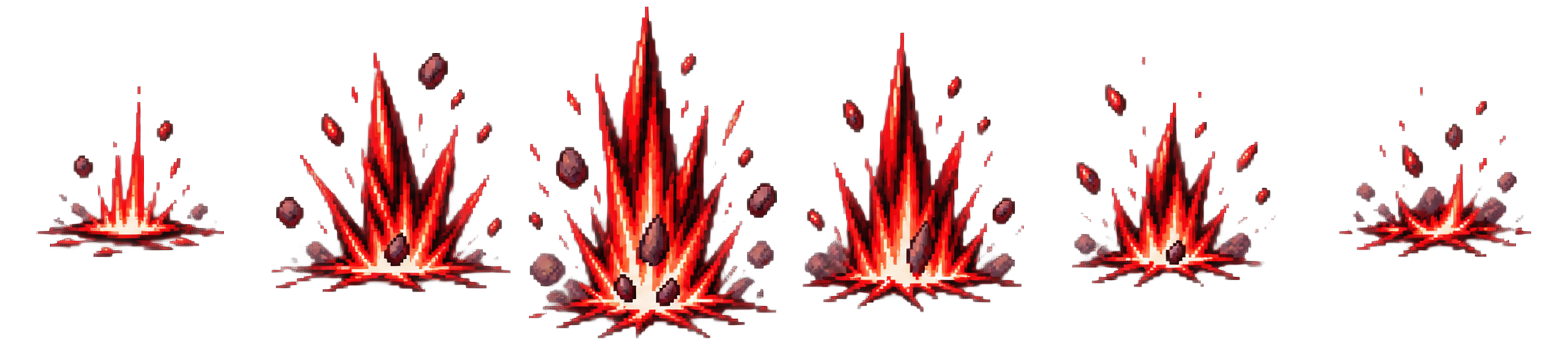
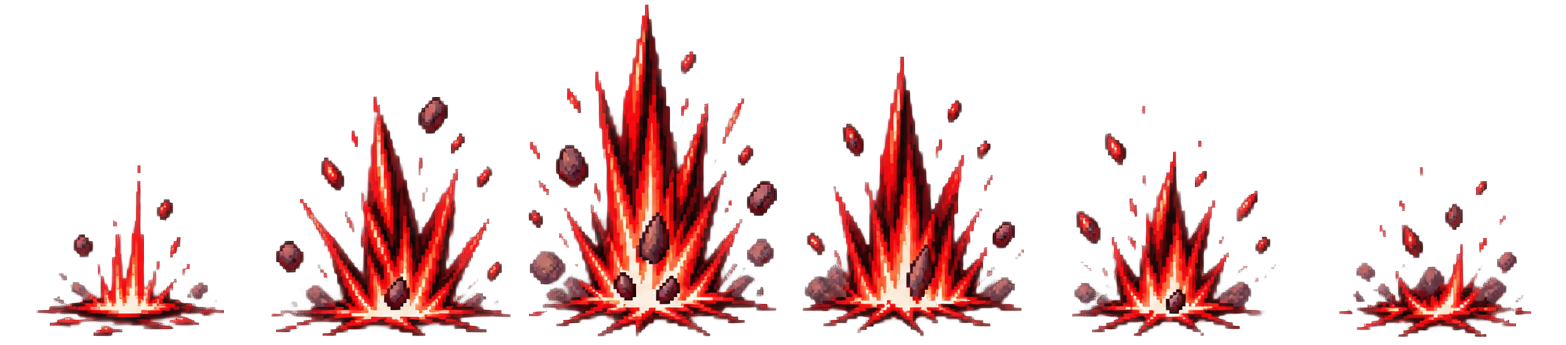
fix : 보스 공격 판정 y좌표, 이펙트 원점, 사슬 휘두르기, 그림자 정지 상태 수정
- 보스를 2배로 키우며 sprite.y(원점)가 가슴 높이까지 올라갔는데 공격 판정은
  여전히 그 기준이라 바닥에 선 플레이어에게 전혀 안 맞던 문제 — 베기·콤보·
  돌진·사슬 포획·사슬 휘두르기 전부 바닥 기준(attackY)으로 다시 잡았다.
- 지난 커밋에서 바닥 정렬(bottom-align)로 이펙트를 재추출하면서 원점을
  안 옮겨 그림이 지정한 y보다 훨씬 아래로 처지던 문제 — 보스 지면 이펙트
  6종 + 플레이어 검극(skillEruption)에 실제 그림 바닥 기준 원점을 추가.
- 내려찍기·판결진 이펙트가 여전히 높이 뜬다는 지적으로 앵커를 더 낮췄고,
  판결진은 배율도 별도로 키웠다.
- 사슬 휘두르기(투사체 기본 패턴)가 손에서 날아가던 것을 제자리에서
  스냅하는 채찍으로 바꿨다 — 판정체를 이동시키지 않는 것만으로 기존
  추적 이펙트를 재사용.
- 보스 히트박스가 다리를 못 맞히던 문제 — 물리 바디를 가운데 정렬 대신
  그림의 실제 바닥선에 붙였다.
- 그림자(깨어나기 전) 상태에 남아 있던 idle 애니메이션·알파 호흡·bob
  흔들림을 전부 제거해 완전히 정지하게 했다.

Claude-Session: https://claude.ai/code/session_01Sm9DXVkb9KpBVxAv69RrkR

diff --git a/src/game/entities/Boss.ts b/src/game/entities/Boss.ts
@@ -89,9 +89,21 @@ const PROJECTILE = {
   intervalMs: 180,
   speed: 430,
   size: 24,
-  /** 화면을 벗어난 투사체를 확실히 회수하기 위한 수명. */
+  /** 화면을 벗어난 투사체를 확실히 회수하기 위한 수명. `executeBarrage`(부채꼴 탄막) 전용. */
   lifeMs: 3_000,
   recoveryMs: 320,
+} as const;
+
+/**
+ * 사슬 휘두르기 — 기본 패턴(projectile) 실행부. 손에서 떨어져 나가 화면을 가로지르는
+ * 투사체가 아니라, 그 자리에서 뻗어 나왔다 되감기는 채찍이다. (사용자 지적: 왜 발사하냐,
+ * 손에서 나가야 한다) 판정체를 이동시키지 않는 것만으로 `bossChainLaunchTrail`을 그대로
+ * 재사용한다 — 폴링 대상이 안 움직이면 이펙트도 제자리에서만 재생된다.
+ */
+const WHIP = {
+  reach: 220,
+  height: 90,
+  activeMs: 160,
 } as const;
 
 const SLAM = {
@@ -332,7 +344,14 @@ export class Boss {
       .sprite(x, this.groundY, TEXTURE.bossIdle, 0)
       .setScale(BOSS_SPRITE_SCALE)
       .setDepth(DEPTH.boss);
-    sprite.body?.setSize(BODY.width / BOSS_SPRITE_SCALE, BODY.height / BOSS_SPRITE_SCALE);
+    // setSize만 쓰면 Phaser가 셀 "가운데"에 바디를 놓는다 — 그림이 바닥 쪽으로 치우쳐
+    // 있어(발이 셀 하단 가까이) 가운데 정렬로는 다리가 바디 밖으로 빠져 안 맞는다.
+    // (사용자 지적: 히트박스가 다리를 못 맞힌다) 바디 바닥을 그림의 실제 바닥선 근처에
+    // 직접 붙인다 — 머리 위쪽은 조금 비워 주더라도 다리는 반드시 잡는다.
+    const bodyWidthLocal = BODY.width / BOSS_SPRITE_SCALE;
+    const bodyHeightLocal = BODY.height / BOSS_SPRITE_SCALE;
+    sprite.body?.setSize(bodyWidthLocal, bodyHeightLocal);
+    sprite.body?.setOffset((463 - bodyWidthLocal) / 2, 395 - bodyHeightLocal);
 
     this.arena.enemyBodies.add(sprite);
     sprite.setData("enemy", this);
@@ -347,21 +366,11 @@ export class Boss {
     // 풀리는 순간 그동안 숨어서 쌓인 낙하 속도가 화면 밖까지 떨어뜨렸던 원인이 이것이다.
     (sprite.body as Phaser.Physics.Arcade.Body).setAllowGravity(false);
 
-    // 그림자 상태 — 어둡게 가라앉은 실루엣으로 서서 숨쉬듯 흔들린다. 체력바도,
-    // 패턴 타이머도 아직 없다(awaken 전까지 update()가 그 아래 로직을 건너뛴다).
-    sprite.play(BOSS_FRAME.idle);
+    // 그림자 상태 — 어둡게 가라앉은 실루엣으로 완전히 멈춰 선다. 숨쉬는 흔들림도,
+    // idle 애니메이션도 없다(사용자 요청: 깨우기 전엔 움직이는 모션이 아예 없어야 한다).
+    // 체력바도, 패턴 타이머도 아직 없다(awaken 전까지 update()가 그 아래 로직을 건너뛴다).
     sprite.setTintFill(0x140a12);
     sprite.setAlpha(0.82);
-    this.tweens.push(
-      this.scene.tweens.add({
-        targets: sprite,
-        alpha: 0.6,
-        duration: 1600,
-        yoyo: true,
-        repeat: -1,
-        ease: "sine.inOut",
-      }),
-    );
   }
 
   /**
@@ -394,9 +403,9 @@ export class Boss {
     const sprite = this.sprite;
     if (this.defeated || !sprite) return;
 
-    if (this.followHitbox) this.followHitbox.setPosition(sprite.x, sprite.y);
-    // 유휴 중에만 떠오르내린다 — 패턴 중엔 포즈·궤적이 우선이다.
-    this.bobOffset = this.busy || this.airborne ? 0 : Math.sin(time * 0.004) * 5;
+    if (this.followHitbox) this.followHitbox.setPosition(sprite.x, this.attackY);
+    // 유휴 중에만 떠오르내린다 — 패턴 중엔 포즈·궤적이 우선이고, 그림자 상태는 아예 멈춰야 한다.
+    this.bobOffset = this.busy || this.airborne || this.dormant ? 0 : Math.sin(time * 0.004) * 5;
     this.clampToArena(sprite);
 
     // 그림자 상태 — 깨어나기 전까지는 그 자리에 가만히 서 있는다.
@@ -453,6 +462,16 @@ export class Boss {
       // 터져 화면 밖으로 떨어지므로, 바닥에 붙어 있는 동안은 항상 0으로 눌러 둔다.
       sprite.setVelocityY(0);
     }
+  }
+
+  /**
+   * 근접형 공격 판정(베기·돌진·사슬 등)의 y 기준점. `sprite.y`(보스 원점)를 그대로 쓰면
+   * 안 된다 — 그림이 2배로 커지면서 원점이 가슴 위쪽까지 올라가, 그 높이에 판정을 놓으면
+   * 바닥에 선 플레이어에게 전혀 안 닿는다. (사용자 지적: 스킬이 전체적으로 너무 높아서
+   * 안 맞는다) 바닥에서 고정 거리만큼 낮춘 지점을 쓴다.
+   */
+  private get attackY(): number {
+    return this.arena.bounds.floorY - 60;
   }
 
   private facePlayer(sprite: Phaser.Physics.Arcade.Sprite): void {
@@ -582,7 +601,7 @@ export class Boss {
       const reach = SLASH.reach * (isFinisher ? COMBO.finisherReachScale : 1);
       const hitX = sprite.x + dir * (BODY.width / 2 + reach / 2);
 
-      bossTelegraphBoxFx(this.scene, hitX, sprite.y, reach, SLASH.height, COMBO.telegraphMs);
+      bossTelegraphBoxFx(this.scene, hitX, this.attackY, reach, SLASH.height, COMBO.telegraphMs);
       this.setPose(BOSS_FRAME.slashTelegraph);
       this.windup();
 
@@ -598,8 +617,8 @@ export class Boss {
         );
         this.punch(sprite);
         this.strikePose(BOSS_FRAME.slashStrike, 200);
-        this.spawnHitbox(hitX, sprite.y, reach, SLASH.height, SLASH.activeMs);
-        bossSlashCrescentFx(this.scene, sprite.x + dir * (BODY.width / 2), sprite.y - 8, dir, VFX_SCALE);
+        this.spawnHitbox(hitX, this.attackY, reach, SLASH.height, SLASH.activeMs);
+        bossSlashCrescentFx(this.scene, sprite.x + dir * (BODY.width / 2), this.attackY, dir, VFX_SCALE);
         if (isFinisher) {
           this.scene.cameras.main.shake(120, 0.006);
           this.after(SLASH.activeMs + COMBO.recoveryMs, () => this.finishPattern());
@@ -621,7 +640,7 @@ export class Boss {
     }
 
     const muzzleX = sprite.x + this.facing * (BODY.width / 2 + PROJECTILE.size);
-    const muzzleY = sprite.y - 12;
+    const muzzleY = this.attackY;
     bossTelegraphBoxFx(
       this.scene,
       muzzleX,
@@ -675,7 +694,8 @@ export class Boss {
     this.setPose(BOSS_FRAME.judgmentTelegraph);
     this.windup();
     // 판결을 여는 순간 — 발밑에 고리가 한 번 떠오른다.
-    bossJudgmentRingFx(this.scene, sprite.x, floorY - 20, VFX_SCALE);
+    // 사용자 지적: 너무 높이 뜨고 너무 작다 — 바닥에 더 붙이고 배율을 따로 키운다.
+    bossJudgmentRingFx(this.scene, sprite.x, floorY, VFX_SCALE * 1.5);
 
     for (let i = 0; i < ERUPTION.count; i += 1) {
       const at = Phaser.Math.Clamp(
@@ -720,9 +740,9 @@ export class Boss {
 
     const dir = this.facing;
     const x = sprite.x + dir * (BODY.width / 2 + CHAIN_PULL.reach / 2);
-    const y = sprite.y;
+    const y = this.attackY;
     this.showTelegraph(x, y, CHAIN_PULL.reach, CHAIN_PULL.height, CHAIN_PULL.telegraphMs);
-    bossChainOrbitFx(this.scene, sprite.x + dir * (BODY.width / 2), sprite.y, CHAIN_PULL.telegraphMs, VFX_SCALE);
+    bossChainOrbitFx(this.scene, sprite.x + dir * (BODY.width / 2), y, CHAIN_PULL.telegraphMs, VFX_SCALE);
     this.setPose(BOSS_FRAME.chainPullTelegraph);
     this.windup();
 
@@ -752,7 +772,7 @@ export class Boss {
     }
 
     const x = sprite.x + this.facing * (BODY.width / 2 + SLASH.reach / 2);
-    const y = sprite.y;
+    const y = this.attackY;
     this.showTelegraph(x, y, SLASH.reach, SLASH.height, SLASH.telegraphMs);
     this.setPose(BOSS_FRAME.slashTelegraph);
     this.windup();
@@ -762,7 +782,7 @@ export class Boss {
       this.strikePose(BOSS_FRAME.slashStrike, SLASH.activeMs + SLASH.recoveryMs);
       this.spawnHitbox(x, y, SLASH.reach, SLASH.height, SLASH.activeMs);
       // 판정은 투명하다 — 그림은 초승달 궤적 스프라이트가 담당한다.
-      bossSlashCrescentFx(this.scene, sprite.x + this.facing * (BODY.width / 2), y - 8, this.facing, VFX_SCALE);
+      bossSlashCrescentFx(this.scene, sprite.x + this.facing * (BODY.width / 2), y, this.facing, VFX_SCALE);
       this.after(SLASH.activeMs + SLASH.recoveryMs, () => this.finishPattern());
     });
   }
@@ -779,9 +799,9 @@ export class Boss {
     const reach = (DASH.speed * DASH.durationMs) / 1000;
     this.showTelegraph(
       sprite.x + (dir * reach) / 2,
-      sprite.y,
+      this.attackY,
       reach,
-      BODY.height,
+      SLASH.height,
       DASH.telegraphMs,
     );
     this.setPose(BOSS_FRAME.dashTelegraph);
@@ -790,15 +810,15 @@ export class Boss {
     this.after(DASH.telegraphMs, () => {
       this.strikePose(BOSS_FRAME.dashStrike, DASH.durationMs + DASH.recoveryMs);
       sprite.setVelocityX(dir * DASH.speed);
-      bossDashSlashFx(this.scene, sprite.x + dir * (BODY.width / 2), sprite.y - 8, dir, VFX_SCALE);
+      bossDashSlashFx(this.scene, sprite.x + dir * (BODY.width / 2), this.attackY, dir, VFX_SCALE);
       // 출발의 무게 — 발밑 흙이 터지고 화면이 잠깐 흔들린다.
       groundDust(this.scene, sprite.x, this.arena.bounds.floorY, "land");
       this.scene.cameras.main.shake(90, 0.004);
       this.followHitbox = this.spawnHitbox(
         sprite.x,
-        sprite.y,
+        this.attackY,
         DASH.hitWidth,
-        BODY.height,
+        SLASH.height,
         DASH.durationMs,
       );
 
@@ -818,7 +838,7 @@ export class Boss {
     });
   }
 
-  /** 원거리 투사체. 발사 순간의 플레이어 위치를 향해 쏘므로 움직이면 빗나간다. */
+  /** 사슬 휘두르기. 손에서 뻗어 나온 채찍이 그 자리에서 여러 번 스냅한다 — 날아가지 않는다. */
   private executeProjectile(): void {
     const sprite = this.sprite;
     if (!sprite) {
@@ -826,14 +846,10 @@ export class Boss {
       return;
     }
 
-    const muzzleX = sprite.x + this.facing * (BODY.width / 2 + PROJECTILE.size);
-    this.showTelegraph(
-      muzzleX,
-      sprite.y,
-      PROJECTILE.size * 2,
-      PROJECTILE.size * 2,
-      PROJECTILE.telegraphMs,
-    );
+    const dir = this.facing;
+    const x = sprite.x + dir * (BODY.width / 2 + WHIP.reach / 2);
+    const y = this.attackY;
+    this.showTelegraph(x, y, WHIP.reach, WHIP.height, PROJECTILE.telegraphMs);
     this.setPose(BOSS_FRAME.projectileTelegraph);
     this.windup();
 
@@ -841,31 +857,17 @@ export class Boss {
       const volleyMs = (PROJECTILE.count - 1) * PROJECTILE.intervalMs;
       this.strikePose(BOSS_FRAME.projectileStrike, volleyMs + PROJECTILE.recoveryMs);
       for (let i = 0; i < PROJECTILE.count; i += 1) {
-        this.after(i * PROJECTILE.intervalMs, () => this.fireProjectile(muzzleX, sprite.y));
+        this.after(i * PROJECTILE.intervalMs, () => this.snapChainWhip(x, y));
       }
       this.after(volleyMs + PROJECTILE.recoveryMs, () => this.finishPattern());
     });
   }
 
-  private fireProjectile(x: number, y: number): void {
-    const target = this.deps.getPlayerPosition();
-    const dx = target.x - x;
-    const dy = target.y - y;
-    const length = Math.hypot(dx, dy) || 1;
-
-    const shot = this.spawnHitbox(
-      x,
-      y,
-      PROJECTILE.size,
-      PROJECTILE.size,
-      PROJECTILE.lifeMs,
-      true,
-    );
-    shot.setVelocity(
-      (dx / length) * PROJECTILE.speed,
-      (dy / length) * PROJECTILE.speed,
-    );
-    // 판정은 투명하다 — 사슬 갈고리 스프라이트가 그림을 맡는다.
+  /** 채찍이 제자리에서 한 번 스냅한다 — 판정체를 이동시키지 않아 이펙트도 날아가지 않는다. */
+  private snapChainWhip(x: number, y: number): void {
+    const shot = this.spawnHitbox(x, y, WHIP.reach, WHIP.height, WHIP.activeMs, true);
+    // 판정은 투명하다 — 사슬 갈고리 스프라이트가 그림을 맡는다. 속도를 주지 않으므로
+    // bossChainLaunchTrail의 폴링 대상이 안 움직여 이펙트도 제자리에서만 재생된다.
     bossChainLaunchTrail(this.scene, shot, this.facing, VFX_SCALE);
   }
 
@@ -932,7 +934,8 @@ export class Boss {
             SLAM.activeMs,
           );
           // 판정은 투명하다 — 착지의 그림은 기둥 폭발 스프라이트 + 흙먼지가 맡는다.
-          bossSlamEruptionFx(this.scene, targetX, this.arena.bounds.floorY - 6, VFX_SCALE);
+          // 사용자 지적: 너무 높이 뜬다 — 바닥에 더 붙인다.
+          bossSlamEruptionFx(this.scene, targetX, this.arena.bounds.floorY + 12, VFX_SCALE);
           groundDust(this.scene, targetX, this.arena.bounds.floorY, "land");
           hitStop(this.scene, 70);
           this.after(SLAM.activeMs + SLAM.recoveryMs, () => this.finishPattern());

diff --git a/src/game/systems/CombatVfx.ts b/src/game/systems/CombatVfx.ts
@@ -1744,6 +1744,10 @@ export const bossDashSlashFx = (
 /** 보스 내려찍기 착지 폭발 — 기둥이 솟았다 터진다. */
 export const bossSlamEruptionFx = (scene: Phaser.Scene, x: number, y: number, scale = 1): void => {
   const fx = scene.add.sprite(x, y, TEXTURE.vfxSlamEruption);
+  // 바닥 정렬 packing(extract.py)에서 그림 바닥이 셀 하단 6px 위에 있다 —
+  // 기본 원점(0.5,0.5)이면 호출부가 지정한 y가 셀 "가운데"를 가리켜, 시각적
+  // 바닥이 그보다 한참 아래로 처진다. 원점을 그림의 실제 바닥에 맞춘다.
+  fx.setOrigin(0.5, 0.9829);
   fx.setDepth(VFX.depth + 1);
   fx.setScale(scale);
   fx.setBlendMode(Phaser.BlendModes.ADD);
@@ -1817,6 +1821,10 @@ export const bossChainOrbitFx = (
 /** 판결선 예고 → 낙하. 연쇄 폭발(executeEruption)의 한 걸음마다 재생한다. */
 export const bossJudgmentLineFx = (scene: Phaser.Scene, x: number, y: number, scale = 1): void => {
   const fx = scene.add.sprite(x, y, TEXTURE.vfxJudgmentLine);
+  // 바닥 정렬 packing(extract.py)에서 그림 바닥이 셀 하단 6px 위에 있다 —
+  // 기본 원점(0.5,0.5)이면 호출부가 지정한 y가 셀 "가운데"를 가리켜, 시각적
+  // 바닥이 그보다 한참 아래로 처진다. 원점을 그림의 실제 바닥에 맞춘다.
+  fx.setOrigin(0.5, 0.982);
   fx.setDepth(VFX.depth + 1);
   fx.setScale(scale);
   fx.setBlendMode(Phaser.BlendModes.ADD);
@@ -1859,6 +1867,10 @@ export const bossTelegraphBoxFx = (
 /** 원형 심판진 — 연쇄 폭발(executeEruption) 시작 시 보스 발밑에 한 번 띄운다. */
 export const bossJudgmentRingFx = (scene: Phaser.Scene, x: number, y: number, scale = 1): void => {
   const fx = scene.add.sprite(x, y, TEXTURE.vfxJudgmentRing);
+  // 바닥 정렬 packing(extract.py)에서 그림 바닥이 셀 하단 6px 위에 있다 —
+  // 기본 원점(0.5,0.5)이면 호출부가 지정한 y가 셀 "가운데"를 가리켜, 시각적
+  // 바닥이 그보다 한참 아래로 처진다. 원점을 그림의 실제 바닥에 맞춘다.
+  fx.setOrigin(0.5, 0.9822);
   fx.setDepth(VFX.depth + 1);
   fx.setScale(scale);
   fx.setBlendMode(Phaser.BlendModes.ADD);
@@ -1869,6 +1881,10 @@ export const bossJudgmentRingFx = (scene: Phaser.Scene, x: number, y: number, sc
 /** 그림자 등장 — 스폰 스프라이트 애니메이션 위에 겹쳐 쓰는 보조 플레어. */
 export const bossShadowEmergeFx = (scene: Phaser.Scene, x: number, y: number, scale = 1): void => {
   const fx = scene.add.sprite(x, y, TEXTURE.vfxShadowEmerge);
+  // 바닥 정렬 packing(extract.py)에서 그림 바닥이 셀 하단 6px 위에 있다 —
+  // 기본 원점(0.5,0.5)이면 호출부가 지정한 y가 셀 "가운데"를 가리켜, 시각적
+  // 바닥이 그보다 한참 아래로 처진다. 원점을 그림의 실제 바닥에 맞춘다.
+  fx.setOrigin(0.5, 0.9848);
   fx.setDepth(VFX.depth - 1);
   fx.setScale(scale);
   fx.setBlendMode(Phaser.BlendModes.ADD);
@@ -1879,6 +1895,10 @@ export const bossShadowEmergeFx = (scene: Phaser.Scene, x: number, y: number, sc
 /** 페이즈 전환 오오라 — 포효 순간 바닥에서 솟는다. */
 export const bossPhaseAuraFx = (scene: Phaser.Scene, x: number, y: number, scale = 1): void => {
   const fx = scene.add.sprite(x, y, TEXTURE.vfxPhaseAura);
+  // 바닥 정렬 packing(extract.py)에서 그림 바닥이 셀 하단 6px 위에 있다 —
+  // 기본 원점(0.5,0.5)이면 호출부가 지정한 y가 셀 "가운데"를 가리켜, 시각적
+  // 바닥이 그보다 한참 아래로 처진다. 원점을 그림의 실제 바닥에 맞춘다.
+  fx.setOrigin(0.5, 0.9821);
   fx.setDepth(VFX.depth + 1);
   fx.setScale(scale);
   fx.setBlendMode(Phaser.BlendModes.ADD);
@@ -1889,6 +1909,10 @@ export const bossPhaseAuraFx = (scene: Phaser.Scene, x: number, y: number, scale
 /** 지면 가시/암흑 폭발 — 사망 붕괴 순간에 겹쳐 쓴다. */
 export const bossGroundSpikeFx = (scene: Phaser.Scene, x: number, y: number, scale = 1): void => {
   const fx = scene.add.sprite(x, y, TEXTURE.vfxGroundSpike);
+  // 바닥 정렬 packing(extract.py)에서 그림 바닥이 셀 하단 6px 위에 있다 —
+  // 기본 원점(0.5,0.5)이면 호출부가 지정한 y가 셀 "가운데"를 가리켜, 시각적
+  // 바닥이 그보다 한참 아래로 처진다. 원점을 그림의 실제 바닥에 맞춘다.
+  fx.setOrigin(0.5, 0.975);
   fx.setDepth(VFX.depth + 1);
   fx.setScale(scale);
   fx.setBlendMode(Phaser.BlendModes.ADD);

diff --git a/src/game/entities/Player.ts b/src/game/entities/Player.ts
@@ -1248,7 +1248,14 @@ export class Player {
         if (this.hasUpgrade("MELEE_FIRE_EDGE")) box.setData("element", "FIRE" satisfies UpgradeElement);
         this.scene.time.delayedCall(140, () => box.destroy());
 
-        this.burstSkillVfx("skillEruptionBurst", at, floorY - 8, TUNING.upgrade.eruptionVisualScale);
+        this.burstSkillVfx(
+          "skillEruptionBurst",
+          at,
+          floorY - 8,
+          TUNING.upgrade.eruptionVisualScale,
+          1,
+          0.9768,
+        );
         groundDust(this.scene, at, floorY, "land");
       });
     }
@@ -1467,8 +1474,17 @@ export class Player {
    * 텍스처는 해당 시트 키를, `scale`은 프레임마다 다른 원본 크기를 화면 표시 크기로
    * 맞추는 배율이다.
    */
-  private burstSkillVfx(animKey: SkillVfxKey, x: number, y: number, scale: number, facing: 1 | -1 = 1): void {
+  private burstSkillVfx(
+    animKey: SkillVfxKey,
+    x: number,
+    y: number,
+    scale: number,
+    facing: 1 | -1 = 1,
+    /** 검극처럼 바닥에 붙어 자라나는 이펙트만 그림의 실제 바닥에 원점을 맞춘다(기본은 가운데). */
+    originY = 0.5,
+  ): void {
     const fx = this.scene.add.sprite(x, y, SKILL_VFX_TEXTURE[animKey]);
+    fx.setOrigin(0.5, originY);
     fx.setScale(facing * scale, scale);
     fx.setDepth(TUNING.depth.attack + 1);
     fx.setBlendMode(Phaser.BlendModes.ADD);
